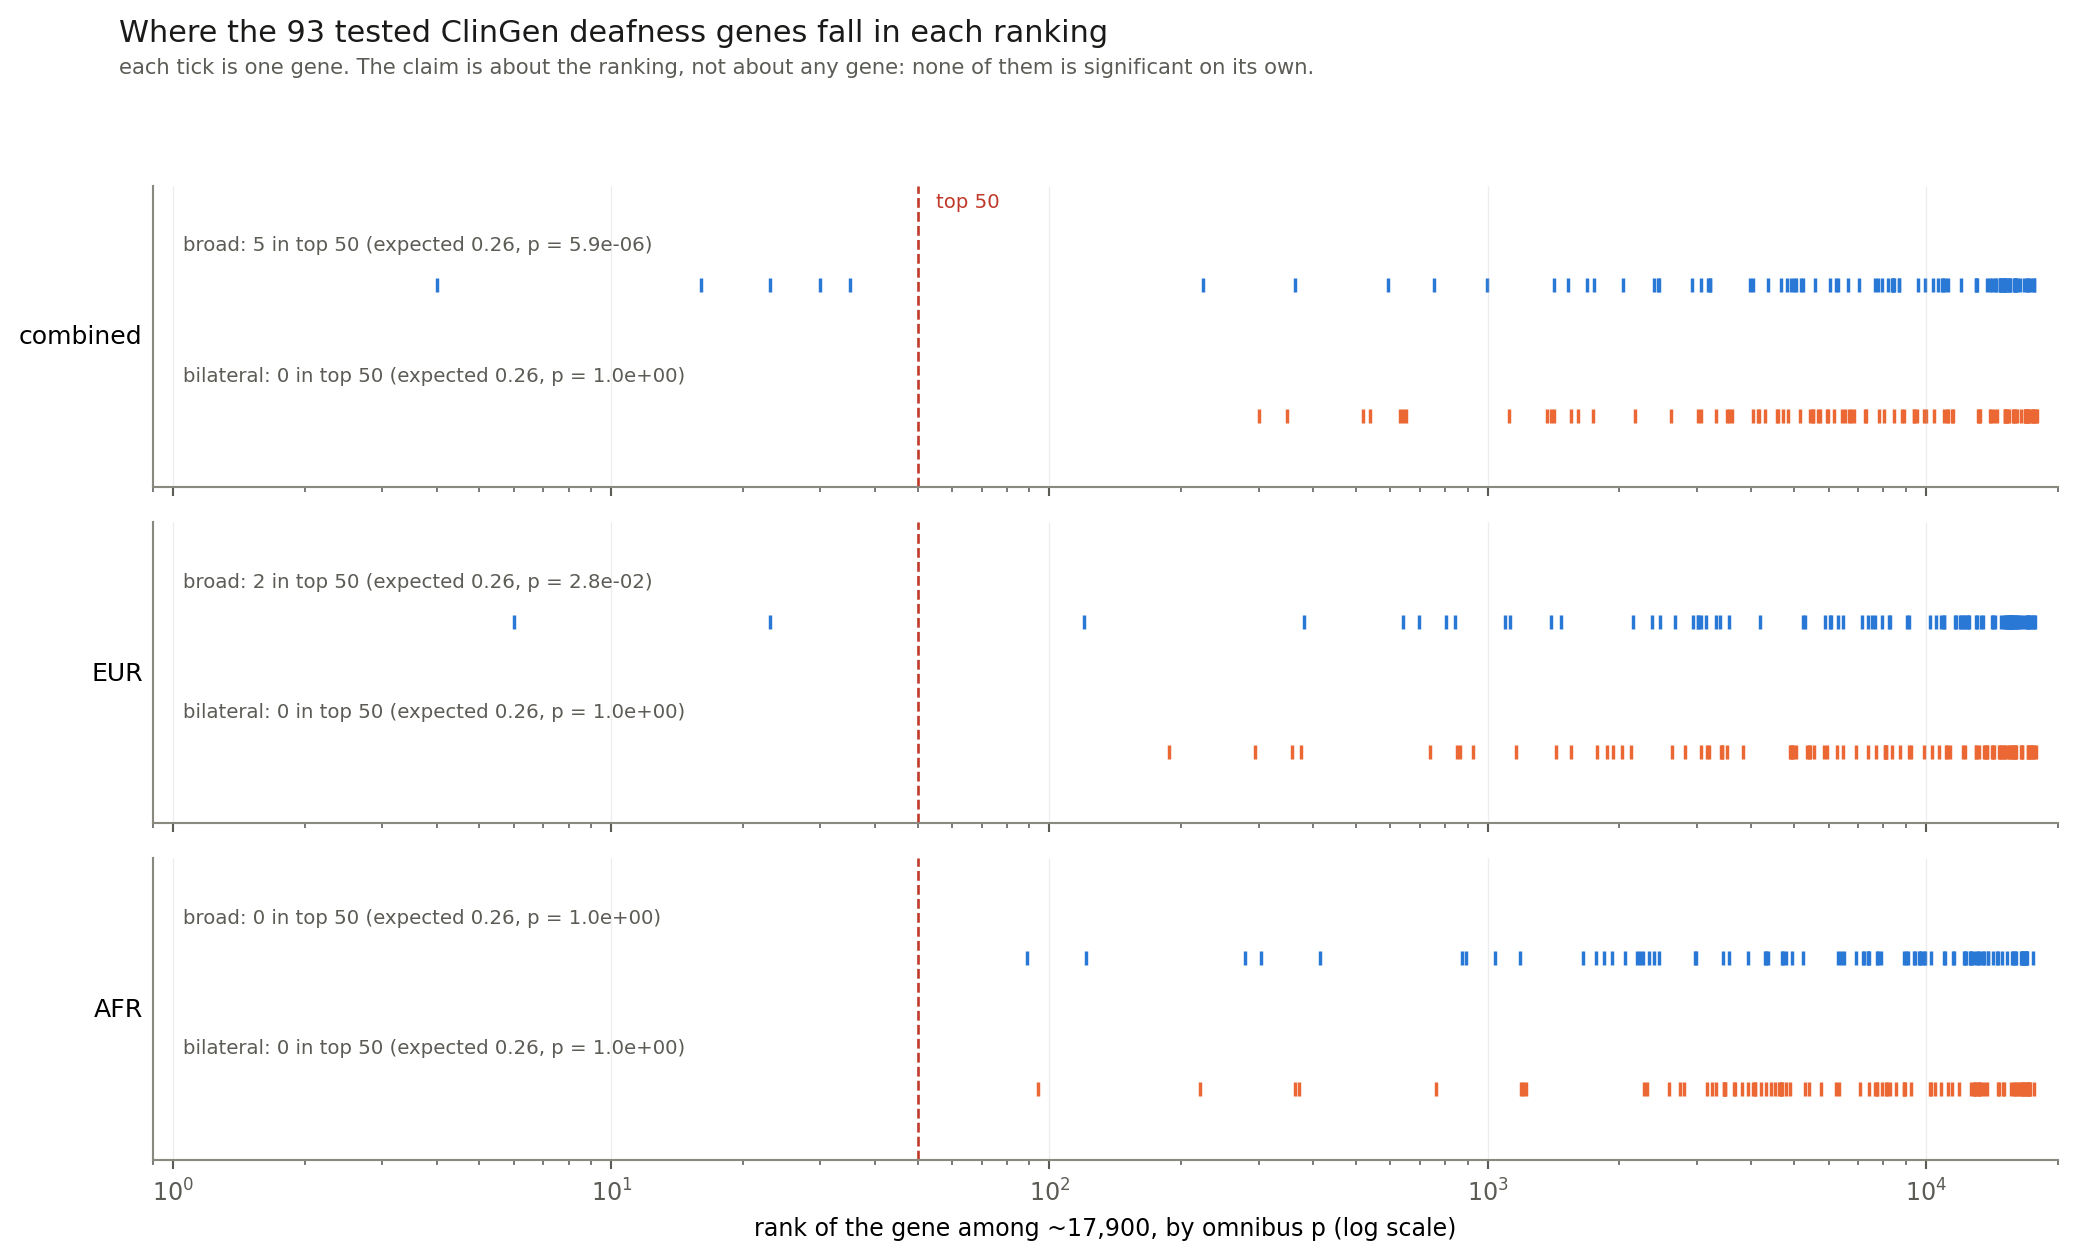
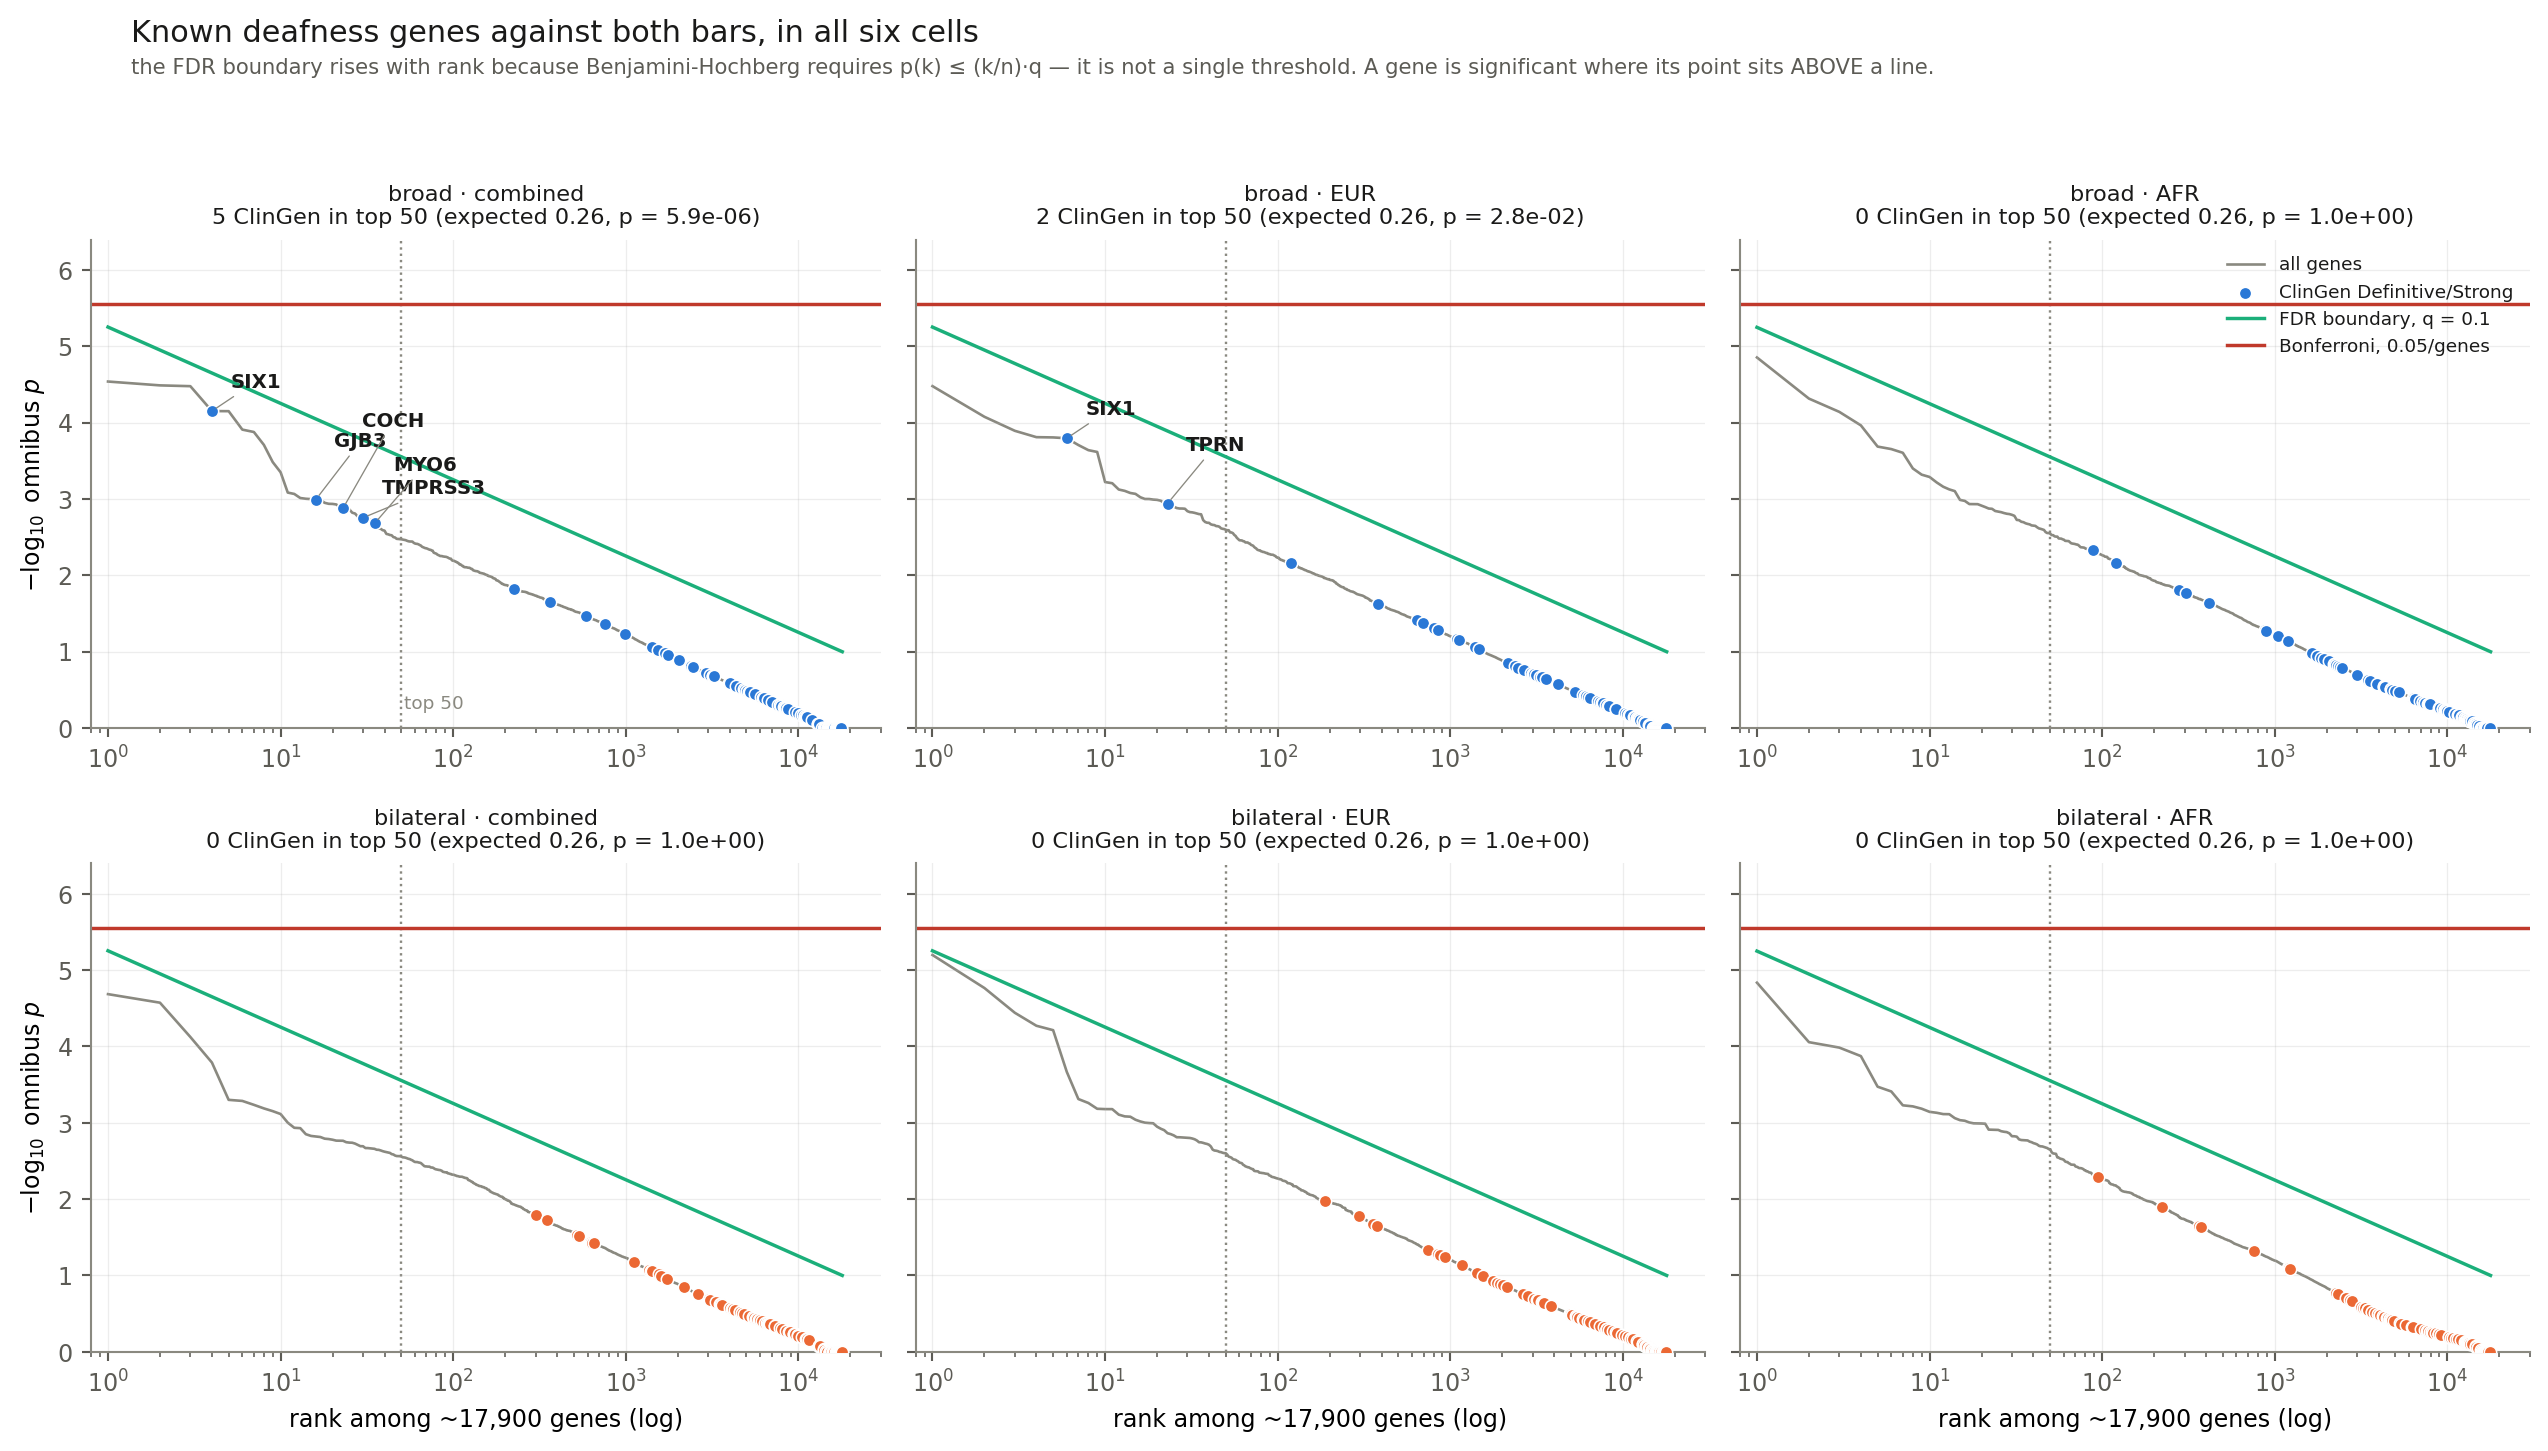
ClinGen figure: both bars, and the named genes
Andre asked for gene names over the top 50 and for Bonferroni and FDR
lines. The names were easy. The bars were not, and the reason is worth
recording: the old figure's axis was RANK, and both bars are p-value
thresholds, so neither had a position on it -- and since nothing is
significant, both would have sat at rank 0, off the plot.

Worse, FDR is not a line even in principle. Benjamini-Hochberg requires
p(k) <= (k/n)*q, so its boundary RISES with rank. Drawing it as a
horizontal threshold would have been wrong in a way that looked right.

So the figure is now rank against p, which is the one axis pair where
both are drawable: Bonferroni flat, the BH boundary as the diagonal it
actually is, and the distance from each ClinGen gene to both readable
directly. It is the classic BH diagnostic plot, and it shows something
the strip plot hid -- in bilateral EUR the curve at rank 1 nearly
touches the green line, which is FBXO25 at 13% short.

Labels are staggered with leader lines: at a fixed offset the five genes
in the combined arm land within a few ranks of each other and stack
illegibly. The legend says "Bonferroni, 0.05/genes" rather than a value,
since the bar differs slightly per arm and quoting one panel's number as
if it were all of them would mislead.

diff --git a/analysis/pmbb_hl/rare_variant/phase_5/scripts/03_figures.py b/analysis/pmbb_hl/rare_variant/phase_5/scripts/03_figures.py
@@ -101,40 +101,78 @@ def fig_manhattan():
 
 
 def fig_clingen():
+    """Rank against p, which is the only axis pair on which BOTH bars are drawable.
+
+    The earlier version used rank alone. On a rank axis Bonferroni has no position --
+    it is a p-value threshold -- and FDR is not even a line: Benjamini-Hochberg requires
+    p(k) <= (k/n)*q, so its boundary rises with rank. Here rank is x and p is y, which
+    makes Bonferroni a horizontal line and the BH boundary the diagonal it actually is,
+    and the distance from each ClinGen gene to both is readable directly.
+
+    Only the ClinGen genes inside the top 50 are named: seven across the six arms, so
+    the labels cost nothing, and naming all 93 would bury the point.
+    """
     rep = json.loads((HERE / "results/02_enrichment.json").read_text())
     cg = pd.read_csv(HERE / "data/clingen_hl_genes.tsv", sep="\t")
     gene_set = set(cg[cg.best_classification.isin(["Definitive", "Strong"])].gene)
+    Q = 0.10
 
-    fig, axes = plt.subplots(3, 1, figsize=(11, 6.4), sharex=True)
-    for ax, cohort in zip(axes, COHORTS):
-        for i, pheno in enumerate(PHENOS):
+    fig, axes = plt.subplots(2, 3, figsize=(13.5, 7.6), sharey=True)
+    for r, pheno in enumerate(PHENOS):
+        for c, cohort in enumerate(COHORTS):
+            ax = axes[r, c]
             d = omnibus(pheno, cohort).sort_values("omnibus_p").reset_index(drop=True)
             d["rank"] = np.arange(1, len(d) + 1)
+            n = len(d)
+            bar = float(d.bonferroni_bar.iloc[0])
+
+            ax.plot(d["rank"], -np.log10(d.omnibus_p), color=INK_3, lw=1.0,
+                    zorder=1, label="all genes")
             hit = d[d.Region.isin(gene_set)]
-            y = 1 - i * 0.55
-            ax.scatter(hit["rank"], np.full(len(hit), y), s=26, marker="|",
-                       linewidths=1.3, color=PCOL[pheno])
+            ax.scatter(hit["rank"], -np.log10(hit.omnibus_p), s=22, zorder=3,
+                       color=PCOL[pheno], edgecolors=SURFACE, linewidths=0.6,
+                       label="ClinGen Definitive/Strong")
+
+            k = np.arange(1, n + 1)
+            ax.plot(k, -np.log10(k / n * Q), color="#1baf7a", lw=1.3, ls="-",
+                    zorder=2, label=f"FDR boundary, q = {Q:g}")
+            ax.axhline(-np.log10(bar), color="#c0392b", lw=1.3, zorder=2,
+                       label="Bonferroni, 0.05/genes")
+            ax.axvline(50, color=INK_3, lw=0.9, ls=":", zorder=1)
+
+            # staggered: in the combined arm five labels land within a few ranks
+            # of each other and stack illegibly at a fixed offset
+            top = hit[hit["rank"] <= 50].sort_values("rank")
+            for j, (_, g) in enumerate(top.iterrows()):
+                dy = 9 + (j % 3) * 11
+                ax.annotate(g.Region, (g["rank"], -np.log10(g.omnibus_p)),
+                            textcoords="offset points", xytext=(7, dy),
+                            fontsize=7.5, color=INK, fontweight="bold",
+                            arrowprops=dict(arrowstyle="-", lw=0.5, color=INK_3,
+                                            shrinkA=0, shrinkB=2))
+
             e = rep["arms"][f"{pheno}_{cohort}"]["definitive_strong"]["depths"]["50"]
-            # label ABOVE the strip: inline, the ticks run through the text
-            ax.text(1.05, y + 0.17, f"{pheno}: {e['observed']} in top 50 "
-                                    f"(expected {e['expected']:.2f}, "
-                                    f"p = {e['p']:.1e})",
-                    fontsize=7.5, va="center", color=INK_2)
-        ax.axvline(50, color="#c0392b", lw=1.0, ls="--")
-        ax.set_xscale("log")
-        ax.set_xlim(0.9, 2e4)
-        ax.set_ylim(0.15, 1.42)
-        ax.set_yticks([])
-        ax.set_ylabel(cohort, rotation=0, ha="right", va="center", fontsize=9.5)
-        ax.grid(axis="y", alpha=0)
-    axes[0].text(55, 1.33, "top 50", fontsize=7.5, color="#c0392b")
-    axes[-1].set_xlabel("rank of the gene among ~17,900, by omnibus p (log scale)")
-    fig.suptitle("Where the 93 tested ClinGen deafness genes fall in each ranking",
-                 fontsize=11.5, x=0.06, ha="left", y=1.03)
-    fig.text(0.06, 0.985, "each tick is one gene. The claim is about the ranking, not "
-             "about any gene: none of them is significant on its own.",
+            ax.set_xscale("log")
+            ax.set_xlim(0.8, 3e4)
+            ax.set_ylim(0, 6.4)
+            ax.set_title(f"{pheno} · {cohort}\n{e['observed']} ClinGen in top 50 "
+                         f"(expected {e['expected']:.2f}, p = {e['p']:.1e})",
+                         fontsize=8.5)
+            if c == 0:
+                ax.set_ylabel("$-\\log_{10}$ omnibus $p$")
+            if r == 1:
+                ax.set_xlabel("rank among ~17,900 genes (log)")
+    axes[0, 0].text(52, 0.25, "top 50", fontsize=7, color=INK_3)
+    axes[0, 2].legend(loc="upper right", fontsize=7)
+
+    fig.suptitle("Known deafness genes against both bars, in all six cells",
+                 fontsize=11.5, x=0.055, ha="left", y=1.0)
+    fig.text(0.055, 0.962,
+             "the FDR boundary rises with rank because Benjamini-Hochberg requires "
+             "p(k) \u2264 (k/n)\u00b7q — it is not a single threshold. A gene is "
+             "significant where its point sits ABOVE a line.",
              fontsize=8, color=INK_2, ha="left")
-    fig.tight_layout(rect=(0, 0, 1, 0.96))
+    fig.tight_layout(rect=(0, 0, 1, 0.945))
     fig.savefig(FIG / "clingen.png")
     plt.close(fig)
     return "clingen.png"

diff --git a/analysis/pmbb_hl/rare_variant/phase_5/results/FINDINGS.md b/analysis/pmbb_hl/rare_variant/phase_5/results/FINDINGS.md
@@ -22,6 +22,15 @@ comparison below is clean.
 
 ![ClinGen](../figures/clingen.png)
 
+**How to read it.** Rank on x, p on y, so both bars are drawable — which they are not on
+a rank axis alone. Bonferroni is a single p-value and sits flat. **FDR is not a line at
+all**: Benjamini-Hochberg requires `p(k) ≤ (k/n)·q`, so its boundary rises with rank, and
+drawing it as a horizontal threshold would be wrong. A gene is significant where its
+point sits *above* one of the lines. None does, in any of the six cells.
+
+The ClinGen genes inside the top 50 are named — seven across all six arms, so the labels
+cost nothing, and naming all 93 would bury the point.
+
 Known deafness genes cluster at the top of the broad combined ranking far more than
 chance allows:
 
